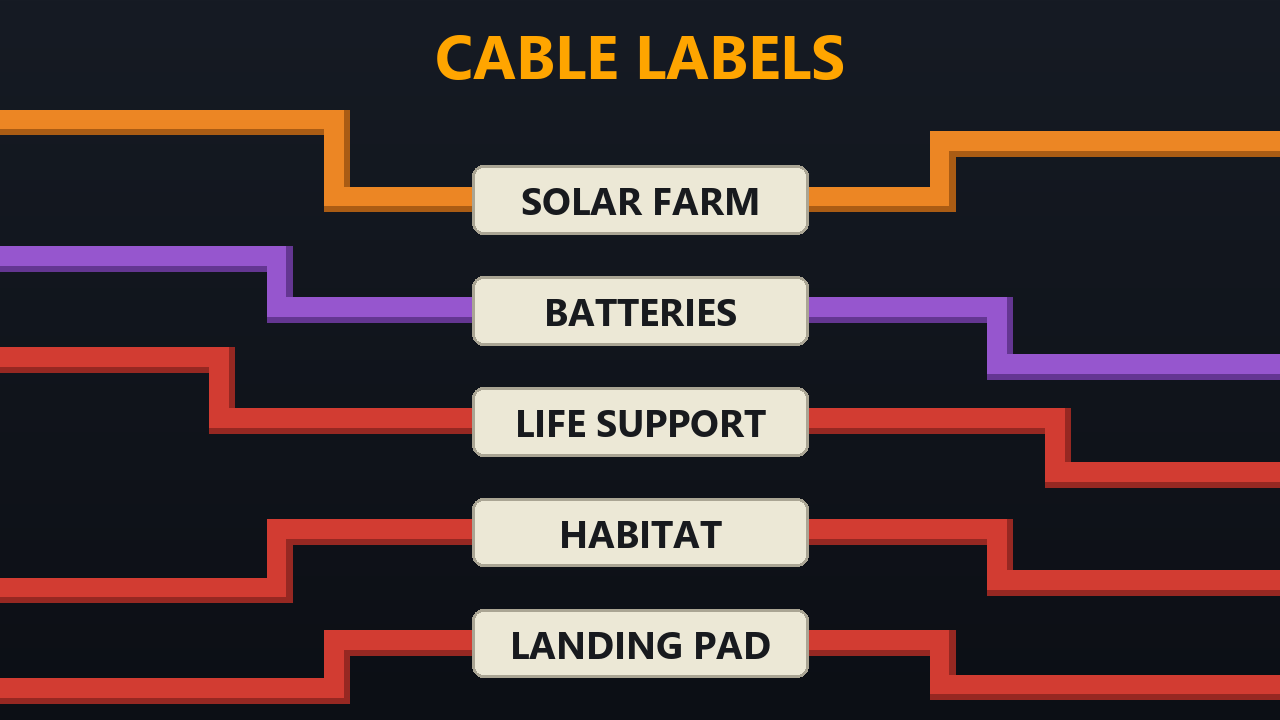
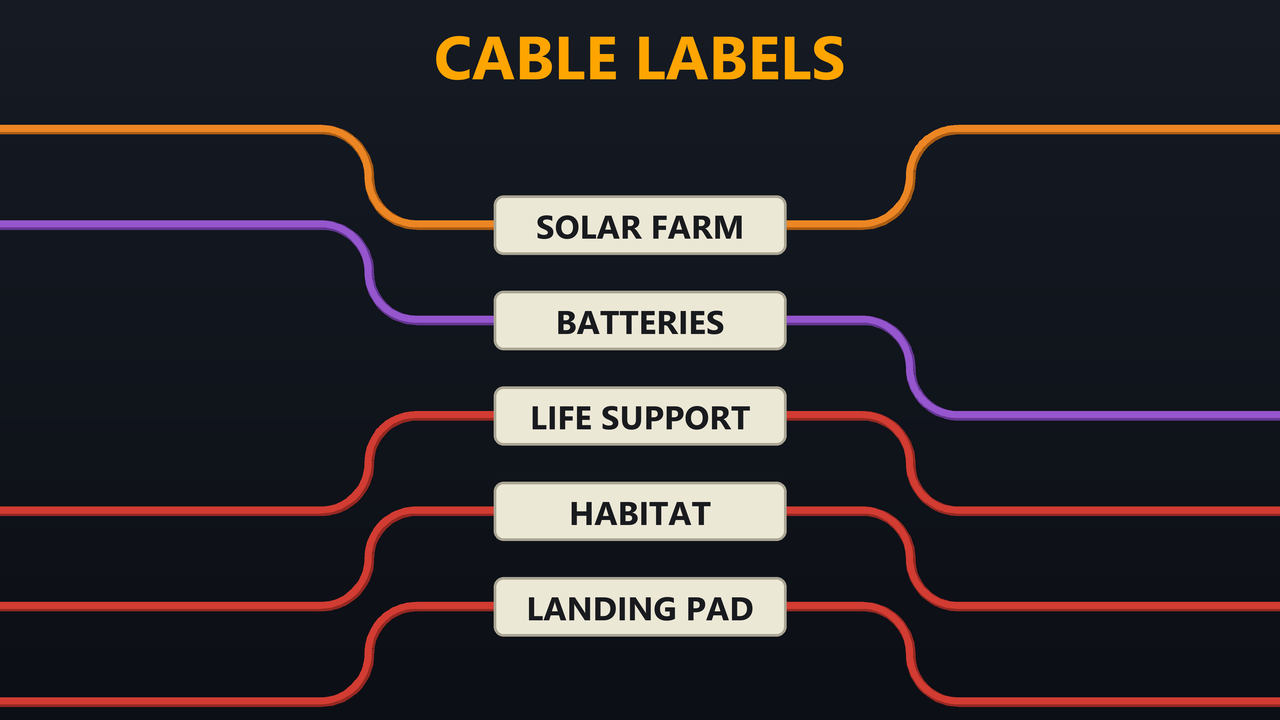
Bend the About images' cables as the game does
Cables now turn on circular arcs instead of square corners, with the
game's proportions: rows one 0.5 m cell apart, cables 5 cm across (a
tenth of a cell) turning on a 25 cm radius (half a cell), so each jog to
the next row is two quarter arcs. Runs jogging the same way bend at the
same x and nest as a real bundle does.

Assisted-by: Claude:claude-opus-5-5

diff --git a/tools/make_images.py b/tools/make_images.py
@@ -5,8 +5,13 @@ LaunchPad needs both to register the mod; they live in Assets/About/. Run from t
     python tools/make_images.py
 
 Needs Pillow. The picture is a bundle of power cables, each with a label: they come in from
-different places on the left, run parallel through the middle so the labels stack in a tidy
-column, and leave at different places on the right. Bends are square, as cables are in game.
+different rows on the left, run parallel through the middle so the labels stack in a tidy
+column, and leave by different rows on the right.
+
+The cables follow the game's geometry. Rows are one 0.5 m cell apart. A standard cable is
+5 cm across, a tenth of a cell, and turns on a 25 cm radius, half a cell, so a jog to the next
+row is two quarter arcs back to back. The labels are drawn far larger than in game, to be
+readable.
 
 Colours follow the player convention: orange for power generation, purple for battery
 connections, red for everything else (grey would be data only). Preview.png has all five
@@ -14,6 +19,7 @@ runs; thumb.png only the three red ones, since five labels are unreadable that s
 Preview.png is shown about 125 px wide on the Mod Info tab, where only the shapes read.
 """
 
+import math
 from pathlib import Path
 
 from PIL import Image, ImageDraw, ImageFont
@@ -32,22 +38,20 @@ ORANGE = ((236, 134, 36), (170, 92, 20))
 PURPLE = ((150, 86, 206), (100, 54, 146))
 RED = ((210, 60, 50), (150, 40, 34))
 
-# (label, colour, where it enters on the left, where it leaves on the right), top to bottom
-# in the bundle. Entry and exit heights are fractions of the image height. Each list keeps
-# the bundle's order on both sides, so no two runs cross, and puts every end at least ~0.07
-# from its bundle height (Preview: 0.277, 0.431, 0.585, 0.739, 0.893; thumb: 0.385, 0.585,
-# 0.785), so every bend reads as a bend.
+# (label, colour, row it enters on the left, row it leaves by on the right), top to bottom in
+# the bundle. The bundle's runs sit in rows 1, 2, ...; each end is the run's own row, one above
+# (-1) or one below (+1). Each side keeps the bundle's order, so no two runs cross.
 FIVE = [
-    ("SOLAR FARM", ORANGE, 0.17, 0.20),
-    ("BATTERIES", PURPLE, 0.36, 0.51),
-    ("LIFE SUPPORT", RED, 0.50, 0.66),
-    ("HABITAT", RED, 0.82, 0.81),
-    ("LANDING PAD", RED, 0.96, 0.955),
+    ("SOLAR FARM", ORANGE, -1, -1),
+    ("BATTERIES", PURPLE, -1, +1),
+    ("LIFE SUPPORT", RED, +1, +1),
+    ("HABITAT", RED, +1, +1),
+    ("LANDING PAD", RED, +1, +1),
 ]
 THREE = [
-    ("LIFE SUPPORT", RED, 0.24, 0.48),
-    ("HABITAT", RED, 0.69, 0.66),
-    ("LANDING PAD", RED, 0.95, 0.90),
+    ("LIFE SUPPORT", RED, -1, +1),
+    ("HABITAT", RED, +1, +1),
+    ("LANDING PAD", RED, +1, +1),
 ]
 
 
@@ -64,19 +68,45 @@ def font(size, bold=False):
     return ImageFont.load_default()
 
 
+def path(x0, y0, x1, y1, bends, radius):
+    """Points along a run from (x0, y0) to (x1, y1): horizontal, with an S-bend of two quarter
+    arcs at each x in bends taking it to the next height in turn."""
+    points = [(x0, y0)]
+    y = y0
+    for bx, target in bends:
+        if target == y:
+            continue
+        s = 1 if target > y else -1
+        steps = 24
+        # Turn from heading right to heading along s, about a centre beside the bend.
+        cx, cy = bx, y + s * radius
+        for k in range(steps + 1):
+            a = math.pi / 2 * k / steps
+            points.append((cx + radius * math.sin(a), cy - s * radius * math.cos(a)))
+        # Then straight on, if the jog is longer than two radii, and turn back to the right.
+        cx, cy = bx + 2 * radius, target - s * radius
+        for k in range(steps + 1):
+            a = math.pi / 2 * k / steps
+            points.append((cx - radius * math.cos(a), cy + s * radius * math.sin(a)))
+        y = target
+    points.append((x1, y))
+    return points
+
+
 def cable(draw, points, thick, colours):
-    """A run through points with square corners: dark underneath, light offset up and left,
-    so each cable keeps a shaded lower or right edge."""
+    """A run through points: dark underneath, light offset up and left, so each cable keeps a
+    shaded lower or right edge."""
     light, dark = colours
     shade = thick / 4
     for colour, off, t in ((dark, 0, thick), (light, -shade / 2, thick - shade)):
-        for (x0, y0), (x1, y1) in zip(points, points[1:]):
-            h = t / 2
-            draw.rectangle([min(x0, x1) - h + off, min(y0, y1) - h + off,
-                            max(x0, x1) + h + off, max(y0, y1) + h + off], fill=colour)
+        draw.line([(x + off, y + off) for x, y in points], fill=colour, width=max(1, round(t)),
+                  joint="curve")
 
 
 def render(w, h, runs):
+    # Drawn at three times the size and scaled down, to smooth the arcs.
+    k = 3
+    w, h = w * k, h * k
     img = Image.new("RGB", (w, h))
     draw = ImageDraw.Draw(img)
     for row in range(h):
@@ -88,34 +118,32 @@ def render(w, h, runs):
     draw.text((w / 2, h * 0.075), "CABLE LABELS", font=font(title, bold=True),
               fill=AMBER, anchor="mm")
 
-    # The bundle: evenly spaced, centred in the space under the title.
-    top, bottom = h * 0.20, h * 0.97
-    pitch = min((bottom - top) / len(runs), h * 0.2)
-    first = (top + bottom) / 2 - pitch * (len(runs) - 1) / 2
-    label_h = pitch * 0.62
-    thick = label_h * 0.36
+    # Rows a cell apart, the bundle's runs in rows 1 to n and a spare row above and below.
+    top, bottom = h * 0.18, h * 0.975
+    cell = (bottom - top) / (len(runs) + 1)
+    row = lambda r: top + r * cell
+    thick = cell / 10
+    radius = cell / 2
+    label_h = cell * 0.62
     text = font(int(label_h * 0.56), bold=True)
     label_w = max(draw.textlength(r[0], font=text) for r in runs) + label_h * 1.1
 
-    # Bends: the outermost runs turn nearest the bundle, so no vertical crosses another run.
-    centre = (len(runs) - 1) / 2
-    left_bus, right_bus = w / 2 - label_w / 2 - w * 0.06, w / 2 + label_w / 2 + w * 0.06
-    step = w * 0.045
-    for i, (name, colours, y_in, y_out) in enumerate(runs):
-        y = first + i * pitch
-        reach = centre - abs(i - centre)
-        x_in = left_bus - step * (1 + reach)
-        x_out = right_bus + step * (1 + reach)
-        cable(draw, [(-thick, h * y_in), (x_in, h * y_in), (x_in, y), (x_out, y),
-                     (x_out, h * y_out), (w + thick, h * y_out)], thick, colours)
+    # Runs jogging the same way bend at the same x, nested as a real bundle is.
+    left_bend = w / 2 - label_w / 2 - w * 0.06 - 2 * radius
+    right_bend = w / 2 + label_w / 2 + w * 0.06
+    for i, (name, colours, end_in, end_out) in enumerate(runs):
+        r = i + 1
+        y_in, y, y_out = row(r + end_in), row(r), row(r + end_out)
+        cable(draw, path(-thick, y_in, w + thick, y_out,
+                         [(left_bend, y), (right_bend, y_out)], radius), thick, colours)
 
     for i, (name, _, _, _) in enumerate(runs):
-        y = first + i * pitch
+        y = row(i + 1)
         box = [w / 2 - label_w / 2, y - label_h / 2, w / 2 + label_w / 2, y + label_h / 2]
         draw.rounded_rectangle(box, radius=label_h / 6, fill=LABEL, outline=LABEL_EDGE,
                                width=max(1, int(label_h / 20)))
         draw.text((w / 2, y), name, font=text, fill=INK, anchor="mm")
-    return img
+    return img.resize((w // k, h // k), Image.LANCZOS)
 
 
 def main():
